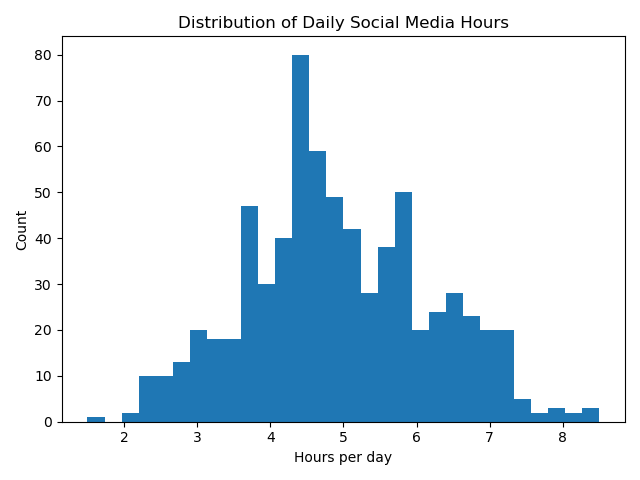
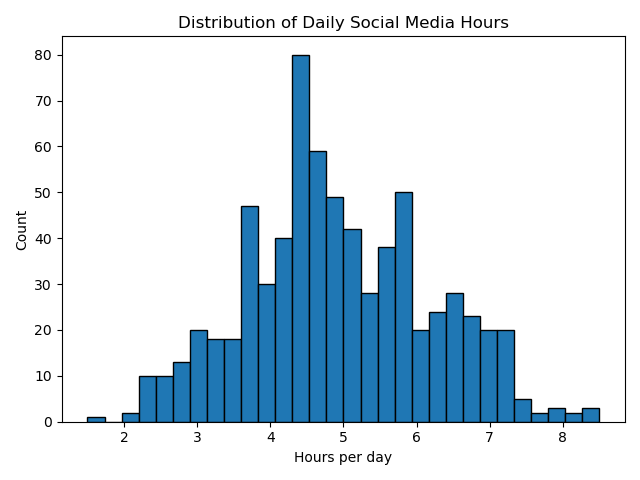
Sprint 2: map Yes/No academic impact to 1/0; regenerate EDA tables & figures

Changed region(s): [[0.1875, 0.0938, 0.9375, 0.875], [0.125, 0.8438, 0.1562, 0.875]]

diff --git a/INST414-Jessica-Barke--Project/notebooks/03_eda.py b/INST414-Jessica-Barke--Project/notebooks/03_eda.py
@@ -1,65 +1,65 @@
 from pathlib import Path
 import pandas as pd, numpy as np
 import matplotlib.pyplot as plt
+import seaborn as sns
 
 ROOT = Path.cwd()
-CLEAN, REPORTS, FIGS = ROOT/"data"/"clean", ROOT/"reports", ROOT/"reports"/"figures"
-FIGS.mkdir(parents=True, exist_ok=True)
+CLEAN = ROOT/"data"/"clean"
+REPORTS = ROOT/"reports"
+FIGS = REPORTS/"figures"
+for d in (CLEAN, REPORTS, FIGS): d.mkdir(parents=True, exist_ok=True)
 
-df = pd.read_csv(CLEAN / "primary_clean.csv")
+df = pd.read_csv(CLEAN/"primary_clean.csv")
+print("Loaded:", df.shape, "cols:", df.columns.tolist())
 
-# Table: summary stats
-keep = [c for c in ['hours_social_media','gpa','sleep_hours','study_hours','work_hours'] if c in df.columns]
-df[keep].describe().T.round(3).to_csv(REPORTS / "summary_stats.csv")
+keep = [c for c in ["hours_social_media","acad_impact","sleep_hours","addiction_score"] if c in df.columns]
+df[keep].describe().T.round(3).to_csv(REPORTS/"summary_stats.csv")
 
-# Fig 1: hours hist
-ax = df['hours_social_media'].plot(kind='hist', bins=30, title='Distribution of Daily Social Media Hours')
-ax.set_xlabel('Hours per day'); ax.set_ylabel('Count'); plt.tight_layout()
-plt.savefig(FIGS / "fig1_hours_hist.png"); plt.close()
+corr = df[keep].corr().round(3)
+corr.to_csv(REPORTS/"correlations.csv")
 
-# Fig 2: GPA hist
-ax = df['gpa'].plot(kind='hist', bins=20, title='Distribution of GPA (0–4)')
-ax.set_xlabel('GPA'); ax.set_ylabel('Count'); plt.tight_layout()
-plt.savefig(FIGS / "fig2_gpa_hist.png"); plt.close()
+# 1) Hours hist
+plt.hist(df["hours_social_media"].dropna(), bins=30, edgecolor="black")
+plt.title("Distribution of Daily Social Media Hours")
+plt.xlabel("Hours per day"); plt.ylabel("Count"); plt.tight_layout()
+plt.savefig(FIGS/"fig1_hours_hist.png"); plt.close()
 
-# Fig 3: GPA vs hours + smoother
-x, y = df['hours_social_media'], df['gpa']
-plt.scatter(x, y, alpha=0.35)
-plt.title('GPA vs Daily Social Media Hours'); plt.xlabel('Hours per day'); plt.ylabel('GPA')
-order = np.argsort(x); xo, yo = x.iloc[order], y.iloc[order]
-y_smooth = yo.rolling(window=max(5,len(x)//20), min_periods=1).mean()
-plt.plot(xo, y_smooth, linewidth=2); plt.tight_layout()
-plt.savefig(FIGS / "fig3_scatter_smooth.png"); plt.close()
+# 2) Academic impact hist
+plt.hist(df["acad_impact"].dropna(), bins=20, edgecolor="black")
+plt.title("Distribution of Academic Impact (Yes=1, No=0)")
+plt.xlabel("Academic impact"); plt.ylabel("Count"); plt.tight_layout()
+plt.savefig(FIGS/"fig2_acad_impact_hist.png"); plt.close()
 
-# Fig 4: GPA by platform
-if 'platform_group' in df.columns:
-    df.boxplot(column='gpa', by='platform_group', grid=False)
-    plt.title('GPA by Platform Group'); plt.suptitle('')
-    plt.xlabel('Platform Group'); plt.ylabel('GPA')
-    plt.tight_layout(); plt.savefig(FIGS / "fig4_gpa_by_platform.png"); plt.close()
+# 3) Scatter + trend
+sns.scatterplot(data=df, x="hours_social_media", y="acad_impact", alpha=0.4)
+sns.regplot(data=df, x="hours_social_media", y="acad_impact", scatter=False, color="darkred", line_kws={"lw":2})
+plt.title("Academic Impact vs Social Media Hours"); plt.tight_layout()
+plt.savefig(FIGS/"fig3_scatter_impact_vs_hours.png"); plt.close()
 
-# Table + Fig 5: correlations
-cont = [c for c in ['hours_social_media','gpa','sleep_hours','study_hours','work_hours'] if c in df.columns]
-if len(cont) >= 2:
-    corr = df[cont].corr().round(3)
-    corr.to_csv(REPORTS / "correlations.csv")
-    fig, ax = plt.subplots(); im = ax.imshow(corr, interpolation='nearest')
-    ax.set_title('Correlation Matrix (Continuous Variables)')
-    ax.set_xticks(range(len(cont))); ax.set_xticklabels(cont, rotation=45, ha='right')
-    ax.set_yticks(range(len(cont))); ax.set_yticklabels(cont)
-    fig.colorbar(im); plt.tight_layout(); plt.savefig(FIGS / "fig5_corr.png"); plt.close()
+# 4) Boxplot by platform group
+if "platform_group" in df.columns:
+    sns.boxplot(data=df, x="platform_group", y="acad_impact")
+    plt.title("Academic Impact by Platform Group"); plt.xlabel("Platform group"); plt.ylabel("Academic impact")
+    plt.tight_layout(); plt.savefig(FIGS/"fig4_impact_by_platform.png"); plt.close()
 
-# Table + Fig 6: group means (heavy x sleep)
-if all(c in df.columns for c in ['heavy_user','sleep_ok','gpa']):
-    grp = df.groupby(['heavy_user','sleep_ok'])['gpa'].agg(['mean','count','std']).reset_index()
-    se = grp['std']/np.sqrt(grp['count'])
-    grp.assign(se=se, ci_lo=grp['mean']-1.96*se, ci_hi=grp['mean']+1.96*se)\
-       .to_csv(REPORTS / "group_means_gpa_by_heavy_sleep.csv", index=False)
-    plt.errorbar(range(len(grp)), grp['mean'], yerr=1.96*se, fmt='o')
-    cats = [f"heavy={int(h)} | sleep={int(s)}" for h,s in zip(grp['heavy_user'], grp['sleep_ok'])]
-    plt.xticks(range(len(grp)), cats, rotation=30, ha='right')
-    plt.title('Mean GPA (95% CI) by Heavy Use and Sleep Adequacy')
-    plt.xlabel('Group'); plt.ylabel('GPA'); plt.tight_layout()
-    plt.savefig(FIGS / "fig6_group_means_ci.png"); plt.close()
+# 5) Correlation heatmap
+plt.figure(figsize=(6,5))
+sns.heatmap(corr, annot=True, cmap="coolwarm", center=0)
+plt.title("Correlation Matrix"); plt.tight_layout()
+plt.savefig(FIGS/"fig5_corr.png"); plt.close()
 
-print("Saved EDA tables & figures to reports/")
+# 6) Group means + CI
+if all(c in df.columns for c in ["heavy_user","sleep_ok","acad_impact"]):
+    grp = df.groupby(["heavy_user","sleep_ok"])["acad_impact"].agg(["mean","count","std"]).reset_index()
+    se = grp["std"]/np.sqrt(grp["count"].clip(lower=1))
+    grp["ci_lo"] = grp["mean"] - 1.96*se
+    grp["ci_hi"] = grp["mean"] + 1.96*se
+    grp.to_csv(REPORTS/"group_means_impact_by_heavy_sleep.csv", index=False)
+
+    plt.errorbar(range(len(grp)), grp["mean"], yerr=1.96*se, fmt="o")
+    plt.xticks(range(len(grp)), [f"heavy={int(h)}|sleep={int(s)}" for h,s in zip(grp["heavy_user"], grp["sleep_ok"])], rotation=30)
+    plt.title("Mean Academic Impact (95% CI) by Heavy Use × Sleep OK")
+    plt.xlabel("Group"); plt.ylabel("Mean impact"); plt.tight_layout()
+    plt.savefig(FIGS/"fig6_group_means_ci.png"); plt.close()
+
+print("✅ EDA complete")

diff --git a/INST414-Jessica-Barke--Project/notebooks/02_cleaning_pipeline.py b/INST414-Jessica-Barke--Project/notebooks/02_cleaning_pipeline.py
@@ -9,87 +9,50 @@ CLEAN.mkdir(parents=True, exist_ok=True)
 REPORT.mkdir(parents=True, exist_ok=True)
 
 log = []
-def add(msg):
-    print(msg); log.append(msg)
+def add(msg): print(msg); log.append(msg)
 
-# --- load primary raw ---
+# Load primary
 src = RAW / "social_media_addiction_vs_relationships.csv"
 df0 = pd.read_csv(src)
 add(f"Loaded raw: {src} | shape={df0.shape}")
 add("Raw columns: " + ", ".join(df0.columns))
 
-# === EXACT column names from YOUR dataset ===
-ALIASES = {
-    "hours_social_media": ["Avg_Daily_Usage_Hours"],
-    "sleep_hours":        ["Sleep_Hours_Per_Night"],
-    "platform_primary":   ["Most_Used_Platform"],
-    "acad_impact":        ["Affects_Academic_Performance"],  # DV for Sprint 2
-    "addiction_score":    ["Addicted_Score"],
-}
-
-def pick(df, names):
-    for n in names:
-        if n in df.columns: 
-            return n
-    return None
+# Column map (from your dataset)
+HOURS_COL = "Avg_Daily_Usage_Hours"
+SLEEP_COL = "Sleep_Hours_Per_Night"
+PLAT_COL  = "Most_Used_Platform"
+DV_COL    = "Affects_Academic_Performance"   # "Yes"/"No"
+ADD_COL   = "Addicted_Score"
 
 def to_num(series):
-    if series is None:
-        return pd.Series(np.nan, index=range(len(df0)))
-    if pd.api.types.is_numeric_dtype(series):
+    if pd.api.types.is_numeric_dtype(series): 
         return pd.to_numeric(series, errors="coerce")
-    # extract numeric substring like "3.5 hrs", "~4"
     extr = series.astype(str).str.extract(r"(-?\d+\.?\d*)", expand=False)
     return pd.to_numeric(extr, errors="coerce")
 
 out = pd.DataFrame(index=df0.index)
+out["hours_social_media"] = to_num(df0[HOURS_COL])
+out["sleep_hours"]        = to_num(df0[SLEEP_COL])
+out["platform_primary"]   = df0[PLAT_COL]
+out["addiction_score"]    = to_num(df0[ADD_COL])
 
-# Map real columns -> standard names
-h_col = pick(df0, ALIASES["hours_social_media"])
-s_col = pick(df0, ALIASES["sleep_hours"])
-p_col = pick(df0, ALIASES["platform_primary"])
-y_col = pick(df0, ALIASES["acad_impact"])
-a_col = pick(df0, ALIASES["addiction_score"])
+# === Map Yes/No -> 1/0 for the DV
+s = df0[DV_COL].astype(str).str.strip().str.lower()
+out["acad_impact"] = s.map({"yes": 1.0, "no": 0.0})
 
-add(f"Map hours_social_media <- {h_col}")
-add(f"Map sleep_hours       <- {s_col}")
-add(f"Map platform_primary  <- {p_col}")
-add(f"Map acad_impact (DV)  <- {y_col}")
-add(f"Map addiction_score   <- {a_col}")
-
-out["hours_social_media"] = to_num(df0[h_col]) if h_col else np.nan
-out["sleep_hours"]        = to_num(df0[s_col]) if s_col else np.nan
-out["platform_primary"]   = df0[p_col] if p_col else pd.Series(np.nan, index=df0.index)
-out["acad_impact"]        = to_num(df0[y_col]) if y_col else np.nan
-out["addiction_score"]    = to_num(df0[a_col]) if a_col else np.nan
-
-# no GPA in this dataset (placeholder to keep scripts happy)
-out["gpa"] = np.nan
-
-# sanity bounds (don't drop rows)
+# Basic sanity bounds (keep rows; null invalids)
 out.loc[(out["hours_social_media"]<0) | (out["hours_social_media"]>24), "hours_social_media"] = np.nan
 out.loc[(out["sleep_hours"]<0) | (out["sleep_hours"]>24), "sleep_hours"] = np.nan
-out.loc[(out["acad_impact"]<0), "acad_impact"] = np.nan
 
-# DO NOT drop duplicates yet (we'll inspect first)
-# prev = len(out); out = out.drop_duplicates(); add(f"drop_duplicates removed: {prev-len(out)}")
-
-# median impute only if we have at least one non-null
+# Impute medians when possible
 for c in ["hours_social_media","sleep_hours","acad_impact","addiction_score"]:
     if out[c].notna().any():
         out[c] = out[c].fillna(out[c].median())
 
-# features
-if out["hours_social_media"].notna().any():
-    cut = out["hours_social_media"].quantile(0.75)
-    out["heavy_user"] = (out["hours_social_media"] >= cut).astype("Int64")
-else:
-    out["heavy_user"] = pd.Series(pd.NA, index=out.index, dtype="Int64")
-
-if out["sleep_hours"].notna().any():
-    out["sleep_ok"] = (out["sleep_hours"] >= 7).astype("Int64")
-else:
-    out["sleep_ok"] = pd.Series(pd.NA, index=out.index, dtype="Int64")
+# Engineered features
+q75 = out["hours_social_media"].quantile(0.75) if out["hours_social_media"].notna().any() else np.nan
+out["heavy_user"] = (out["hours_social_media"] >= q75).astype("Int64") if pd.notna(q75) else pd.Series(pd.NA, index=out.index, dtype="Int64")
+out["sleep_ok"]   = (out["sleep_hours"] >= 7).astype("Int64") if out["sleep_hours"].notna().any() else pd.Series(pd.NA, index=out.index, dtype="Int64")
 
 def map_platform(x):
     if pd.isna(x): return "Other"
@@ -98,20 +61,17 @@ def map_platform(x):
     if any(k in s for k in ["instagram","insta","snap","pinterest"]): return "Image-centric"
     if any(k in s for k in ["linkedin","reddit","quora","discord"]): return "Professional/Forum"
     return "Other"
-
 out["platform_group"] = out["platform_primary"].map(map_platform)
 
-# diagnostics BEFORE saving
+# Diagnostics
 for c in ["hours_social_media","sleep_hours","acad_impact","addiction_score"]:
     nz = int(out[c].notna().sum())
-    mean = float(out[c].dropna().mean()) if nz>0 else float("nan")
-    add(f"{c} non-null: {nz} | mean={mean:.3f}")
+    m  = float(out[c].dropna().mean()) if nz>0 else float("nan")
+    add(f"{c} non-null: {nz} | mean={m:.3f}")
 
+# Save + log
 dst = CLEAN / "primary_clean.csv"
 out.to_csv(dst, index=False)
 add(f"Saved {dst} | shape={out.shape}")
-
-with open(REPORT/"cleaning_log.md","w") as f:
-    f.write("\n".join(log))
-
-print("✅ Cleaning done. Check reports/cleaning_log.md")
+with open(REPORT/"cleaning_log.md","w") as f: f.write("\n".join(log))
+print("✅ Cleaning done. See reports/cleaning_log.md")

diff --git a/INST414-Jessica-Barke--Project/reports/cleaning_log.md b/INST414-Jessica-Barke--Project/reports/cleaning_log.md
@@ -1,3 +1,7 @@
-Start N: 705
-drop_duplicates removed: 704
-Saved data/clean/primary_clean.csv | N=1
+Loaded raw: /Users/jessiebarke/INST414/INST414-Jessica-Barke--Project/INST414-Jessica-Barke--Project/data/raw/social_media_addiction_vs_relationships.csv | shape=(705, 13)
+Raw columns: Student_ID, Age, Gender, Academic_Level, Country, Avg_Daily_Usage_Hours, Most_Used_Platform, Affects_Academic_Performance, Sleep_Hours_Per_Night, Mental_Health_Score, Relationship_Status, Conflicts_Over_Social_Media, Addicted_Score
+hours_social_media non-null: 705 | mean=4.919
+sleep_hours non-null: 705 | mean=6.869
+acad_impact non-null: 705 | mean=0.643
+addiction_score non-null: 705 | mean=6.437
+Saved /Users/jessiebarke/INST414/INST414-Jessica-Barke--Project/INST414-Jessica-Barke--Project/data/clean/primary_clean.csv | shape=(705, 8)
